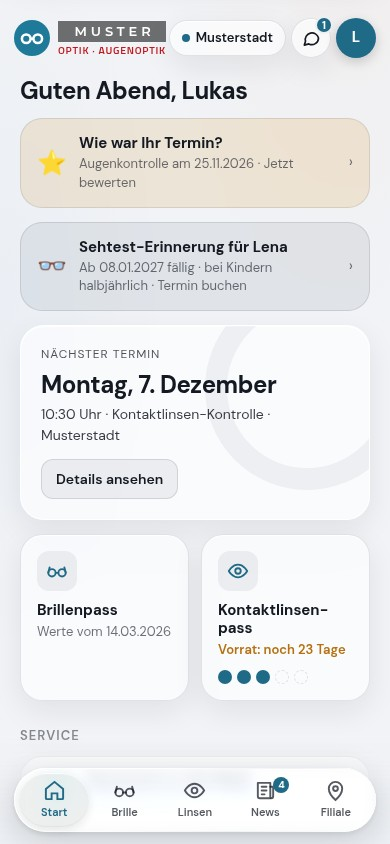
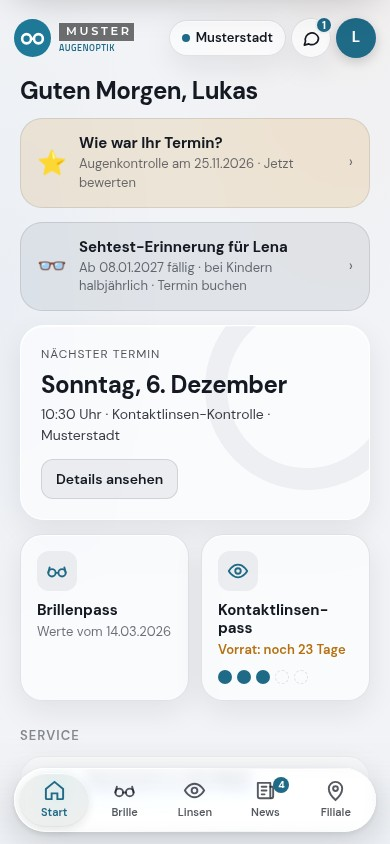
Website v0.8: Screenshots mit neuem Untertitel der Muster Optik

Changed region(s): [[0.0923, 0.4313, 0.7385, 0.4929], [0.0615, 0.0, 0.4308, 0.0616], [0.2462, 0.0924, 0.6769, 0.1232]]

diff --git a/website/index.html b/website/index.html
@@ -2,7 +2,7 @@
 <html lang="de">
 <head>
 <meta charset="utf-8">
-<meta name="version" content="Website v0.7">
+<meta name="version" content="Website v0.8">
 <script>/* Runde 4: Hell/Dunkel – Standard Systemeinstellung, nur auf diesem Gerät gespeichert */
 (function(){var K='optiapp-theme-web',mq=matchMedia('(prefers-color-scheme: dark)');
 function pref(){try{return localStorage.getItem(K)||'system'}catch(e){return 'system'}}

diff --git a/website/login.html b/website/login.html
@@ -2,7 +2,7 @@
 <html lang="de">
 <head>
 <meta charset="utf-8">
-<meta name="version" content="Website v0.7">
+<meta name="version" content="Website v0.8">
 <script>/* Runde 4: Hell/Dunkel – Standard Systemeinstellung, nur auf diesem Gerät gespeichert */
 (function(){var K='optiapp-theme-web',mq=matchMedia('(prefers-color-scheme: dark)');
 function pref(){try{return localStorage.getItem(K)||'system'}catch(e){return 'system'}}

diff --git a/website/rechtliches.html b/website/rechtliches.html
@@ -2,7 +2,7 @@
 <html lang="de">
 <head>
 <meta charset="utf-8">
-<meta name="version" content="Website v0.7">
+<meta name="version" content="Website v0.8">
 <script>/* Runde 4: Hell/Dunkel – Standard Systemeinstellung, nur auf diesem Gerät gespeichert */
 (function(){var K='optiapp-theme-web',mq=matchMedia('(prefers-color-scheme: dark)');
 function pref(){try{return localStorage.getItem(K)||'system'}catch(e){return 'system'}}
